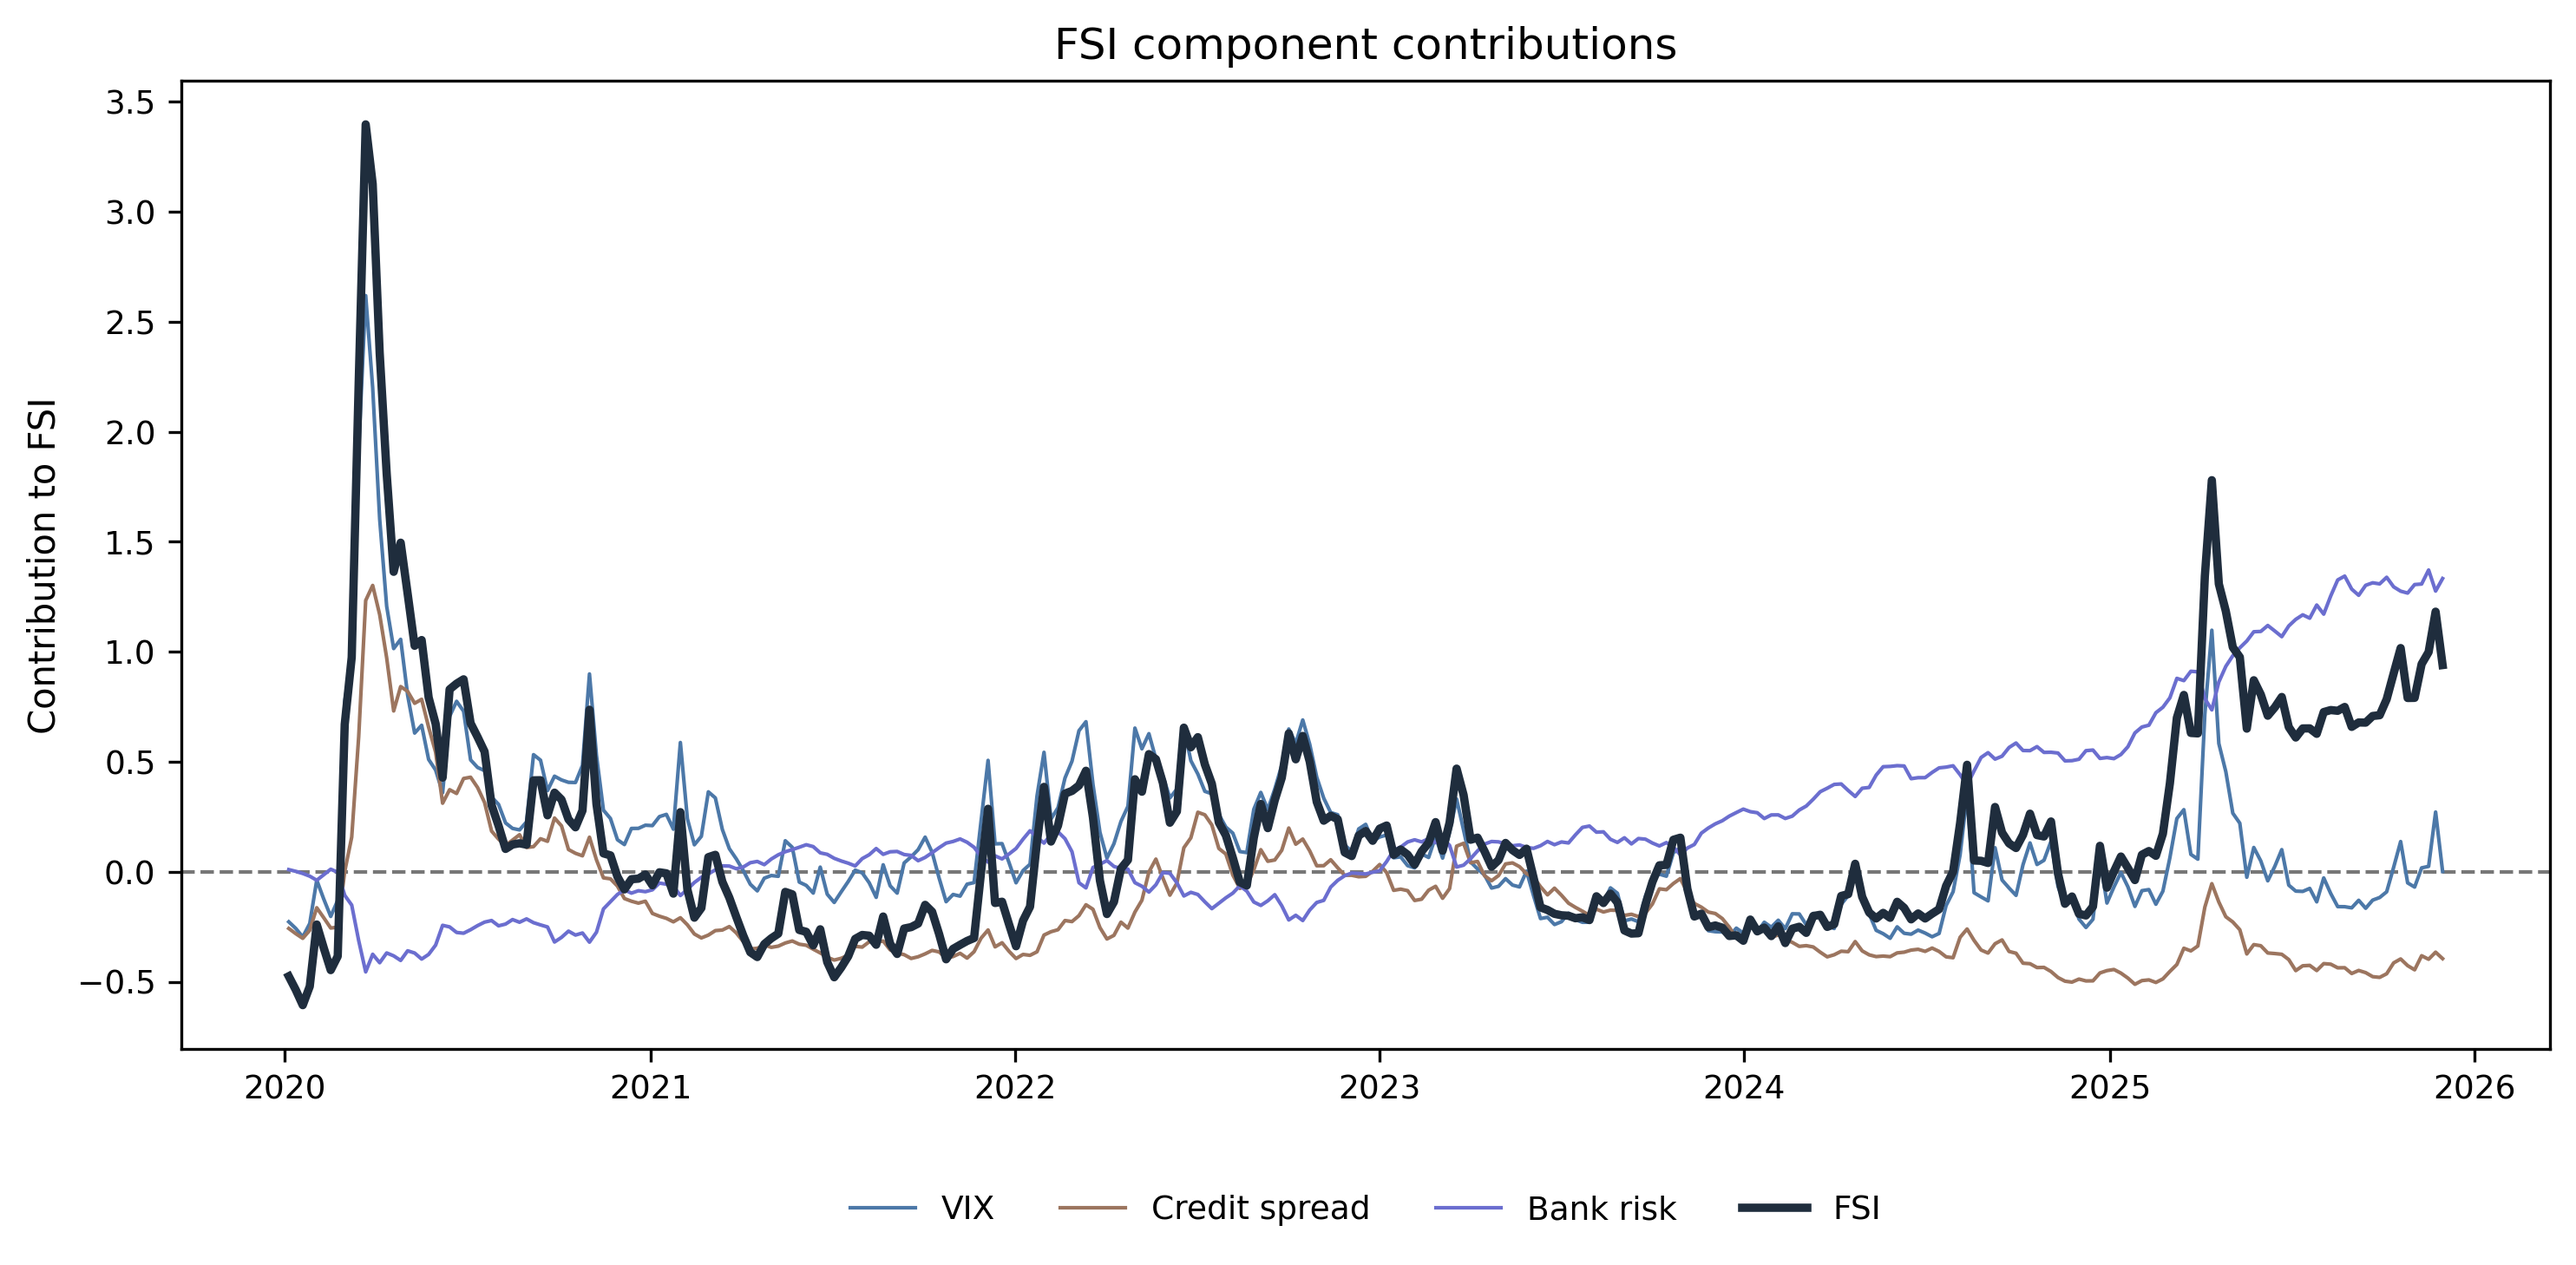
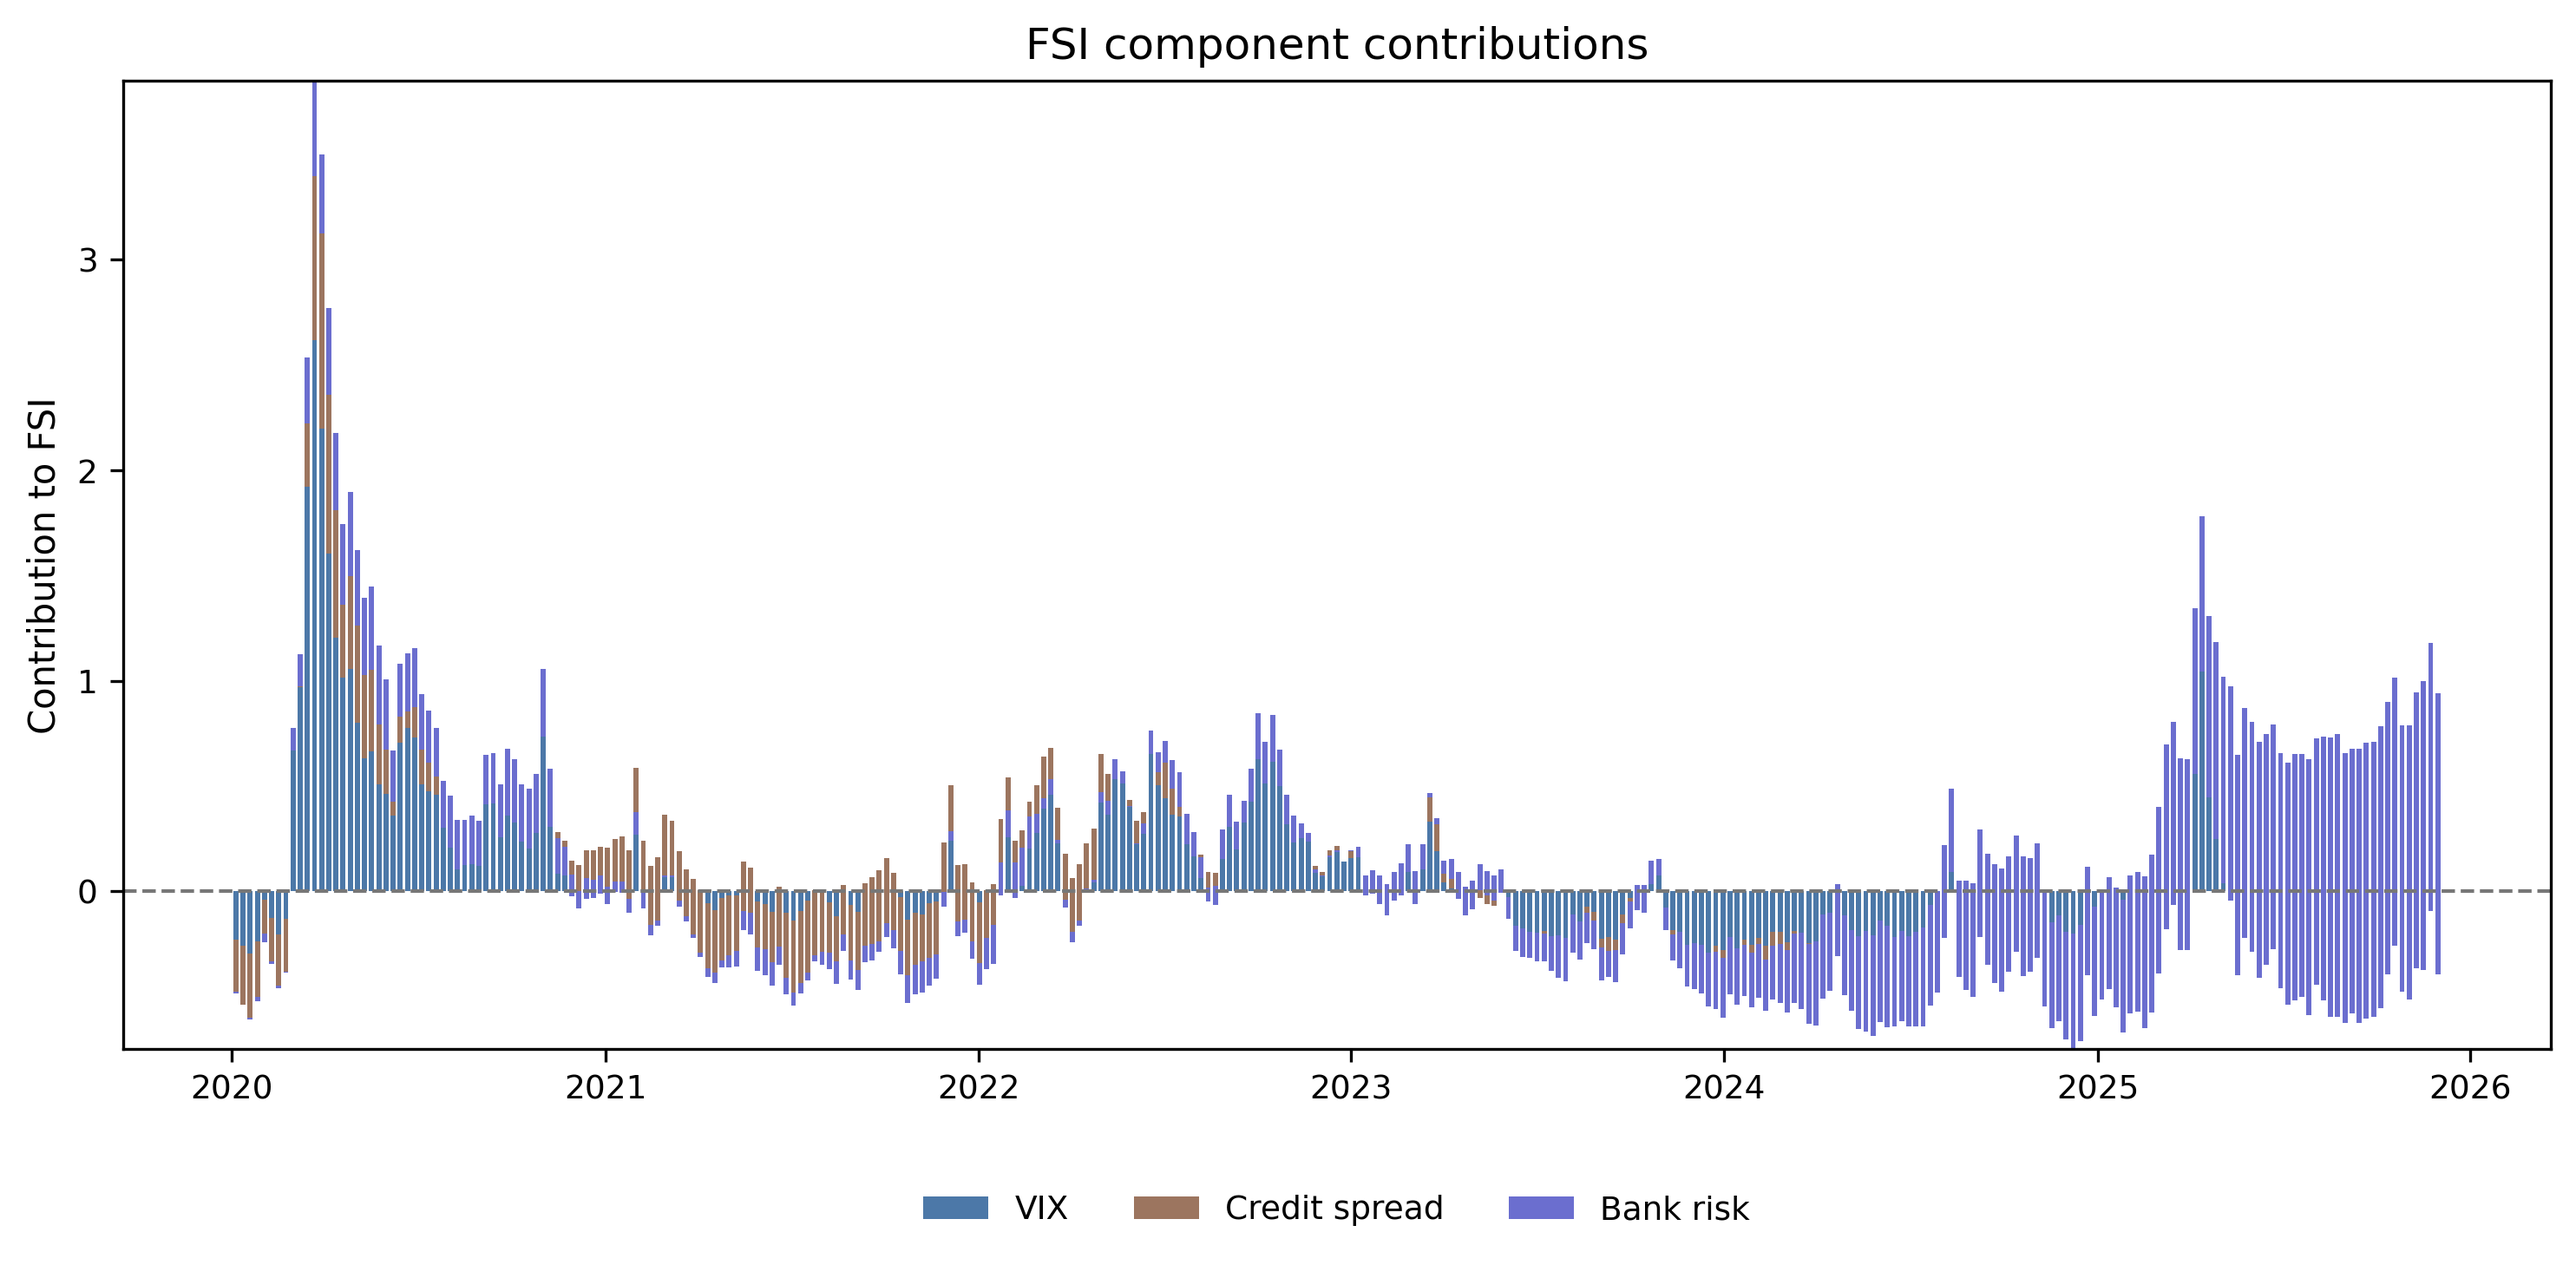
Switch FSI contributions plot to stacked bars

diff --git a/forecasting_script.py b/forecasting_script.py
@@ -141,30 +141,36 @@ def save_figures(
             "VIX": "#4c78a8",
             "Credit spread": "#9c755f",
             "Bank risk": "#6b6ecf",
-            "FSI": "#1f2d3d",
         }
         ax.axhline(0, color="#777777", linewidth=1, linestyle="--")
-        ax.plot(plot_df.index, plot_df["VIX"], label="VIX", color=colors["VIX"], linewidth=1)
-        ax.plot(
+
+        width = 5  # days, for weekly bars
+        vix_vals = plot_df["VIX"]
+        spread_vals = plot_df["Credit spread"]
+        bank_vals = plot_df["Bank risk"]
+
+        ax.bar(plot_df.index, vix_vals, width=width, label="VIX", color=colors["VIX"])
+        ax.bar(
             plot_df.index,
-            plot_df["Credit spread"],
+            spread_vals,
+            width=width,
+            bottom=vix_vals,
             label="Credit spread",
             color=colors["Credit spread"],
-            linewidth=1,
         )
-        ax.plot(
+        ax.bar(
             plot_df.index,
-            plot_df["Bank risk"],
+            bank_vals,
+            width=width,
+            bottom=vix_vals + spread_vals,
             label="Bank risk",
             color=colors["Bank risk"],
-            linewidth=1,
         )
-        ax.plot(plot_df.index, plot_df["FSI"], label="FSI", color=colors["FSI"], linewidth=2.3)
 
         ax.set_title("FSI component contributions")
         ax.set_ylabel("Contribution to FSI")
         ax.tick_params(labelsize=9)
-        legend = ax.legend(loc="upper center", bbox_to_anchor=(0.5, -0.12), ncol=4, fontsize=9)
+        legend = ax.legend(loc="upper center", bbox_to_anchor=(0.5, -0.12), ncol=3, fontsize=9)
         legend.set_frame_on(False)
         fig.tight_layout()
         fig.savefig(REPORT_DIR / "fsi_decomposition.png", dpi=300, bbox_inches="tight")
